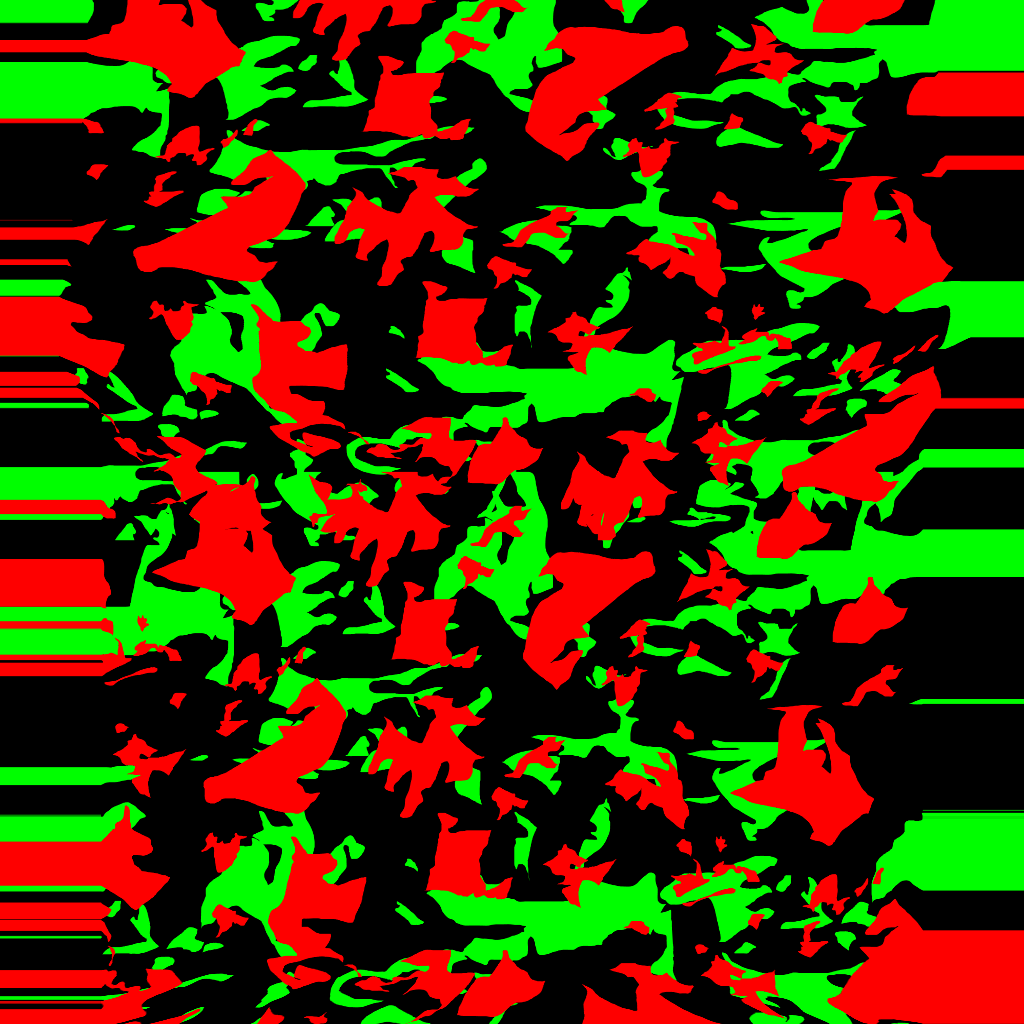
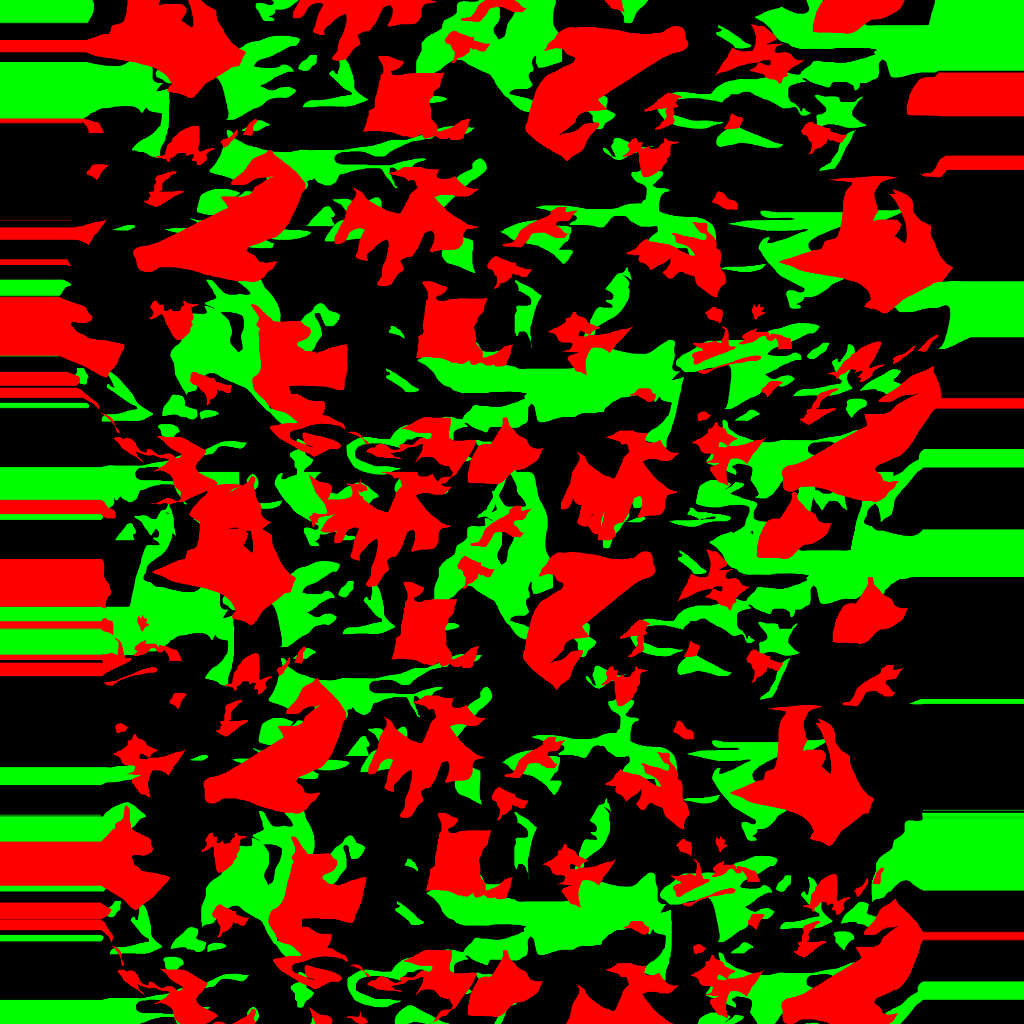
fix: the backs' side panels run straight down to the hem, their curve stays under the arm as in the PDF
The back's hem curves down to its middle; near it the piece's edges followed that curve inward and
rounded off the bottom of the side panels (and bent the stripes there). Below the side seam's hem the
edges are now held. Only the backs change; seams that met still meet.

Changed region(s): [[0.0, 0.9062, 0.5, 1.0], [0.5312, 0.9062, 1.0, 1.0]]

diff --git a/scripts/moldes/extract_moldes.py b/scripts/moldes/extract_moldes.py
@@ -397,7 +397,10 @@ def body_image(piece, paint, size):
     y[above] = piece.tip - (v[above] - MODEL_SHOULDER) * (arm - piece.tip) / (MODEL_SHOULDER - MODEL_ARMPIT_V)
     below = v < MODEL_HEM
     y[below] = hem + (MODEL_HEM - v[below]) * (hem - arm) / (MODEL_ARMPIT_V - MODEL_HEM)
-    xl, xr = src.edges_at(y)
+    # Below the side seam's hem the piece's edges are held: the back's hem curves down to its middle, and
+    # followed inward it would round off the bottom of whatever runs down the side seam (a side panel).
+    # (taken a little above it: on the hem's own row the outline has already turned the corner).
+    xl, xr = src.edges_at(np.minimum(y, hem - EDGE_INSET))
     # Never past what the PDF shows inside the piece's outline: its edge is antialiased against what lies
     # outside, or stops short under the outline's stroke, and the side seam would show a hairline. Off the
     # cloth, the edge's color goes on (the image's padding).
